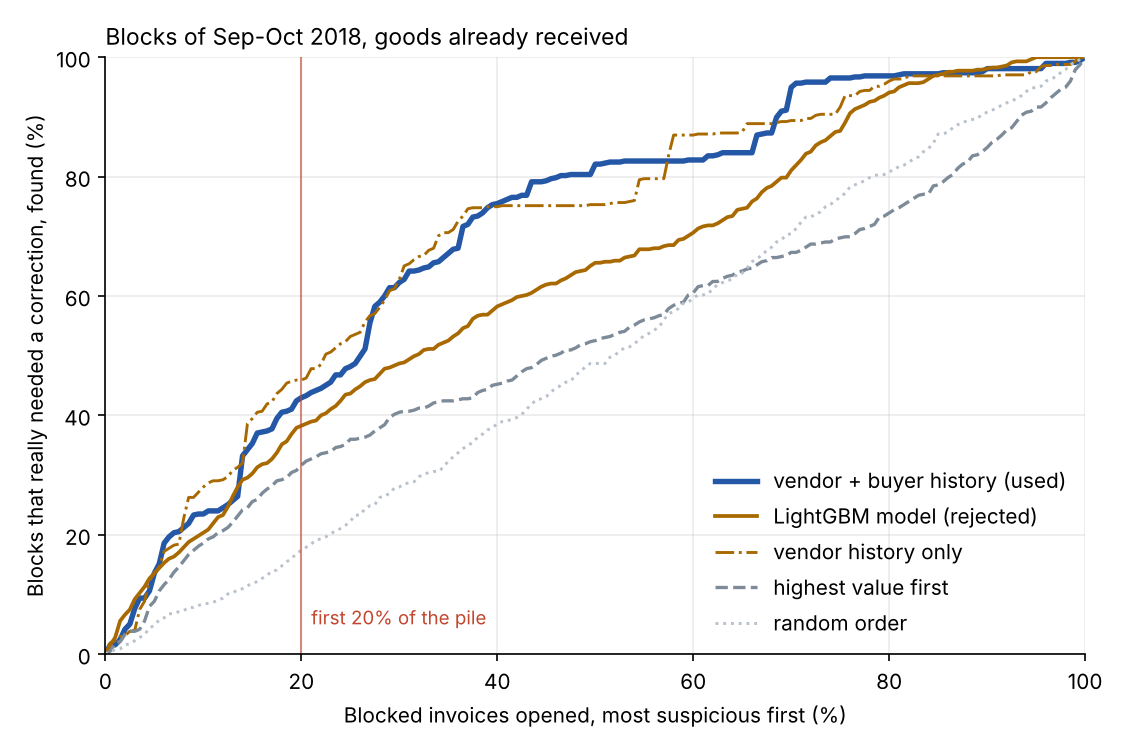
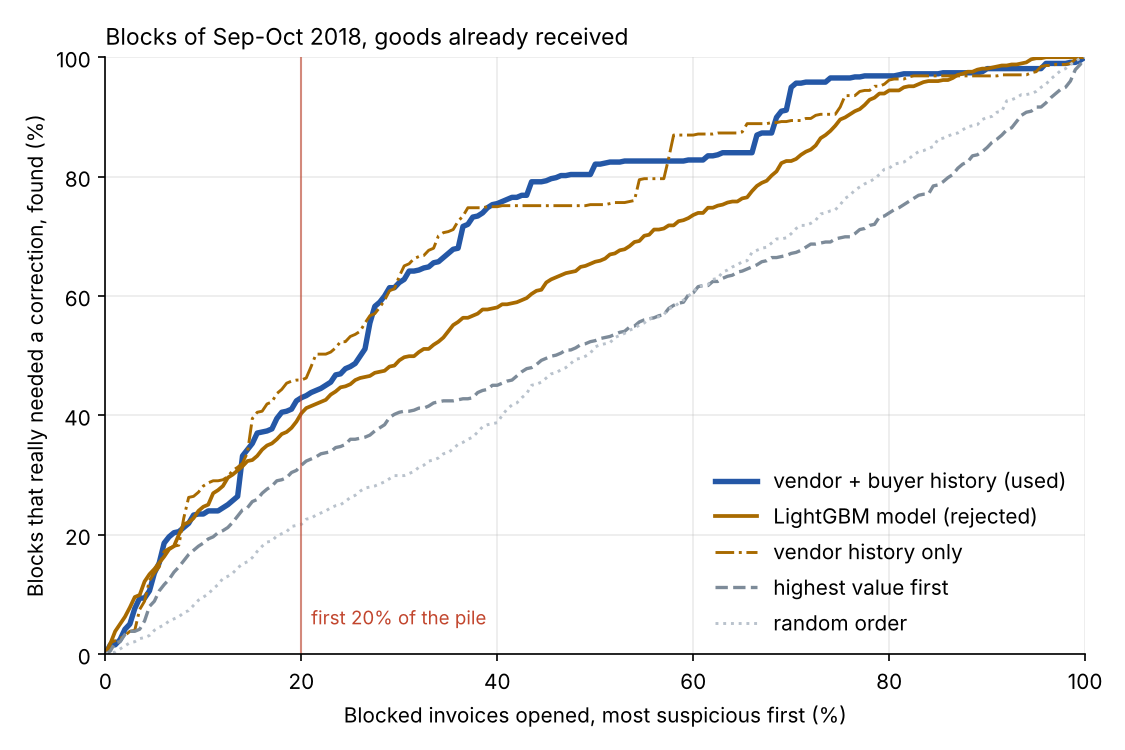
Save the model's settings and the capture curves for the interface

diff --git a/radar/forecast.py b/radar/forecast.py
@@ -18,13 +18,13 @@ from __future__ import annotations
 import json
 from pathlib import Path
 
-import duckdb
 import lightgbm as lgb
 import numpy as np
 import pandas as pd
-from sklearn.metrics import average_precision_score, roc_auc_score
 
-from radar.charts import capture_chart, drivers_chart
+# The API imports this module for its feature definitions only, so the
+# training-time libraries (duckdb, scikit-learn, matplotlib, SHAP) are imported
+# where they are used.
 
 ROOT = Path(__file__).resolve().parents[1]
 WAREHOUSE = ROOT / "data" / "warehouse.duckdb"
@@ -106,6 +106,8 @@ PARAMS = {
 
 
 def load() -> pd.DataFrame:
+    import duckdb
+
     with duckdb.connect(str(WAREHOUSE), read_only=True) as con:
         return con.sql("select * from ml_order_lines").df()
 
@@ -147,6 +149,8 @@ def capture(y: np.ndarray, score: np.ndarray, share: float = REVIEW_SHARE) -> di
 
 
 def scores(y: np.ndarray, score: np.ndarray) -> dict:
+    from sklearn.metrics import average_precision_score, roc_auc_score
+
     return {
         "roc_auc": round(float(roc_auc_score(y, score)), 3),
         "pr_auc": round(float(average_precision_score(y, score)), 3),
@@ -172,6 +176,8 @@ def baselines(train: pd.DataFrame, test: pd.DataFrame) -> dict[str, np.ndarray]:
 
 
 def main() -> None:
+    from radar.charts import capture_chart, drivers_chart, gains_points
+
     for folder in (MODELS, RESULTS, IMAGES):
         folder.mkdir(parents=True, exist_ok=True)
     data = load()
@@ -192,6 +198,9 @@ def main() -> None:
         callbacks=[lgb.early_stopping(100, verbose=False)],
     )
     model.save_model(str(MODELS / "forecast.txt"))
+    meta = {"prior": float(prior), "prior_weight": PRIOR_WEIGHT, "categories": categories,
+            "best_iteration": model.best_iteration, "features": FEATURES}
+    (MODELS / "forecast_meta.json").write_text(json.dumps(meta, indent=1) + "\n")
 
     y = test[TARGET].astype(int).to_numpy()
     curves = {"LightGBM model": model.predict(x_test, num_iteration=model.best_iteration)}
@@ -229,6 +238,9 @@ def main() -> None:
     )
     results["drivers_mean_abs_shap"] = drivers_chart(
         model, x_test, LABELS, IMAGES / "forecast-drivers.png", seed=SEED
+    )
+    (RESULTS / "forecast_curves.json").write_text(
+        json.dumps({name: gains_points(y, score) for name, score in ordered.items()}) + "\n"
     )
     (RESULTS / "forecast.json").write_text(json.dumps(results, indent=2) + "\n")
     print(json.dumps(results["test_scores"], indent=2))

diff --git a/radar/triage.py b/radar/triage.py
@@ -32,7 +32,7 @@ import numpy as np
 import pandas as pd
 from sklearn.metrics import average_precision_score, roc_auc_score
 
-from radar.charts import capture_chart
+from radar.charts import capture_chart, gains_points
 from radar.forecast import capture
 
 ROOT = Path(__file__).resolve().parents[1]
@@ -189,6 +189,9 @@ def main() -> None:
         ylabel="Blocks that really needed a correction, found (%)",
         marker_share=OPEN_FIRST,
         marker_text="first 20% of the pile",
+    )
+    (RESULTS / "triage_curves.json").write_text(
+        json.dumps({name: gains_points(y, score) for name, score in curves.items()}) + "\n"
     )
     (RESULTS / "triage.json").write_text(json.dumps(results, indent=2) + "\n")
     print(json.dumps({k: results[k] for k in ("test_scores", "test_with_august_threshold")}, indent=2))

diff --git a/radar/charts.py b/radar/charts.py
@@ -23,6 +23,15 @@ STYLES = [
 ]
 
 
+def gains_points(y: np.ndarray, score: np.ndarray, points: int = 101) -> list[list[float]]:
+    """The capture curve as [share checked %, share found %] pairs, for the interface."""
+    order = np.argsort(-score, kind="stable")
+    found = np.concatenate([[0], np.cumsum(y[order])]) / y.sum()
+    shares = np.linspace(0, 1, points)
+    idx = np.round(shares * len(y)).astype(int)
+    return [[round(float(s) * 100, 1), round(float(found[i]) * 100, 2)] for s, i in zip(shares, idx)]
+
+
 def capture_chart(
     y: np.ndarray,
     curves: dict[str, np.ndarray],
